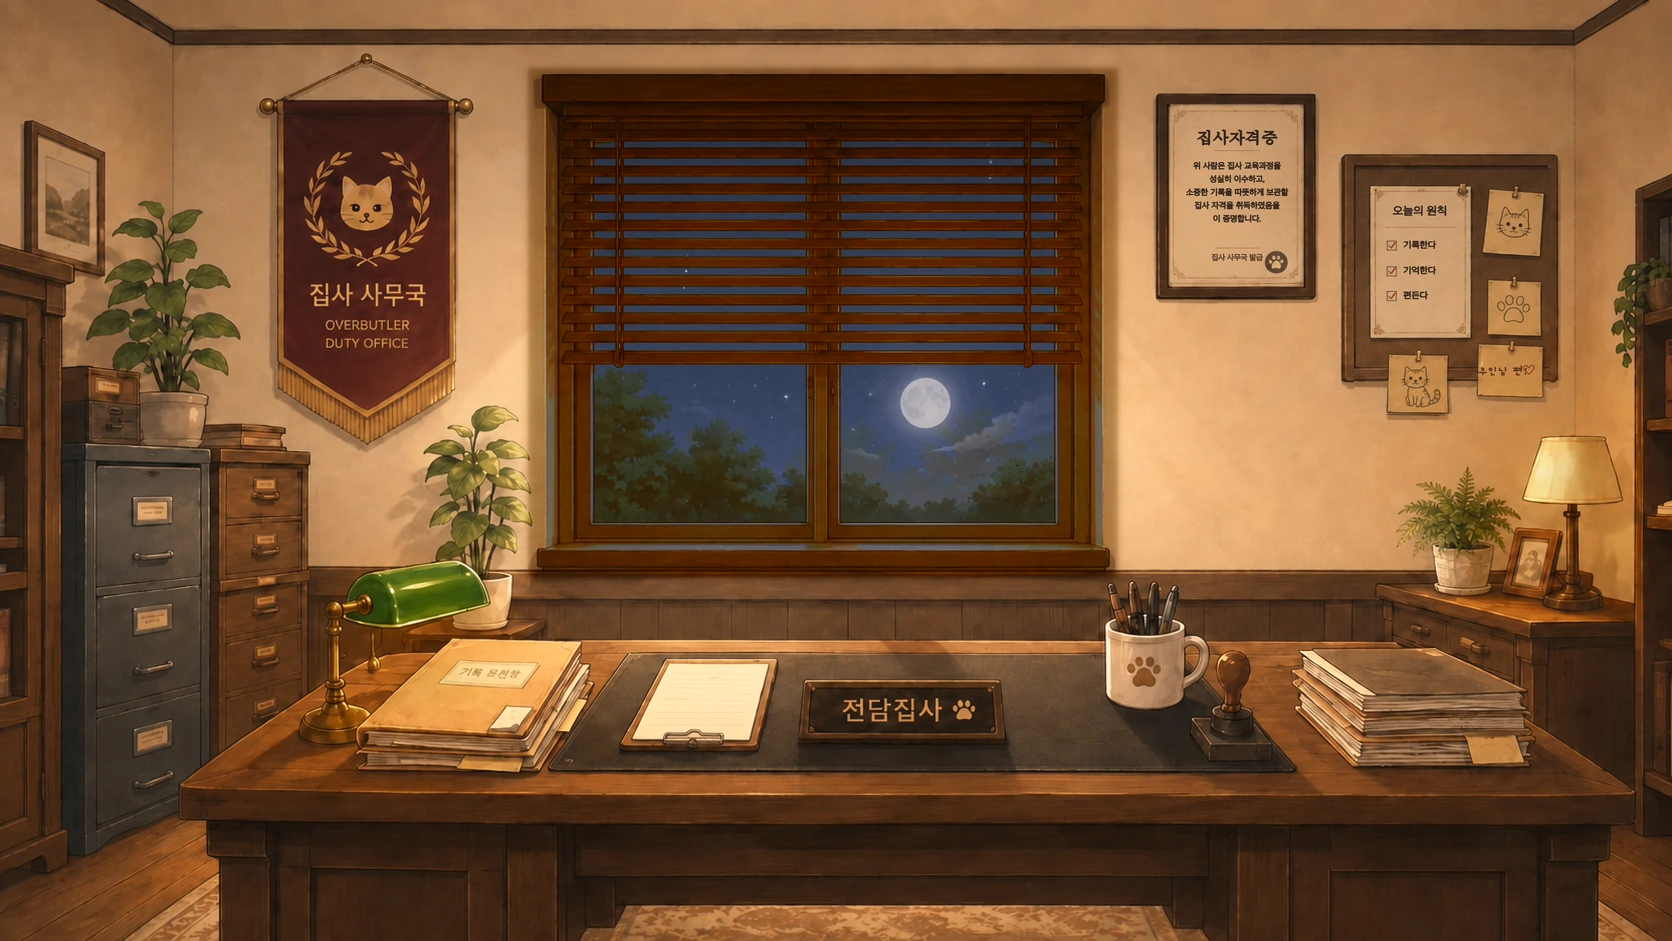
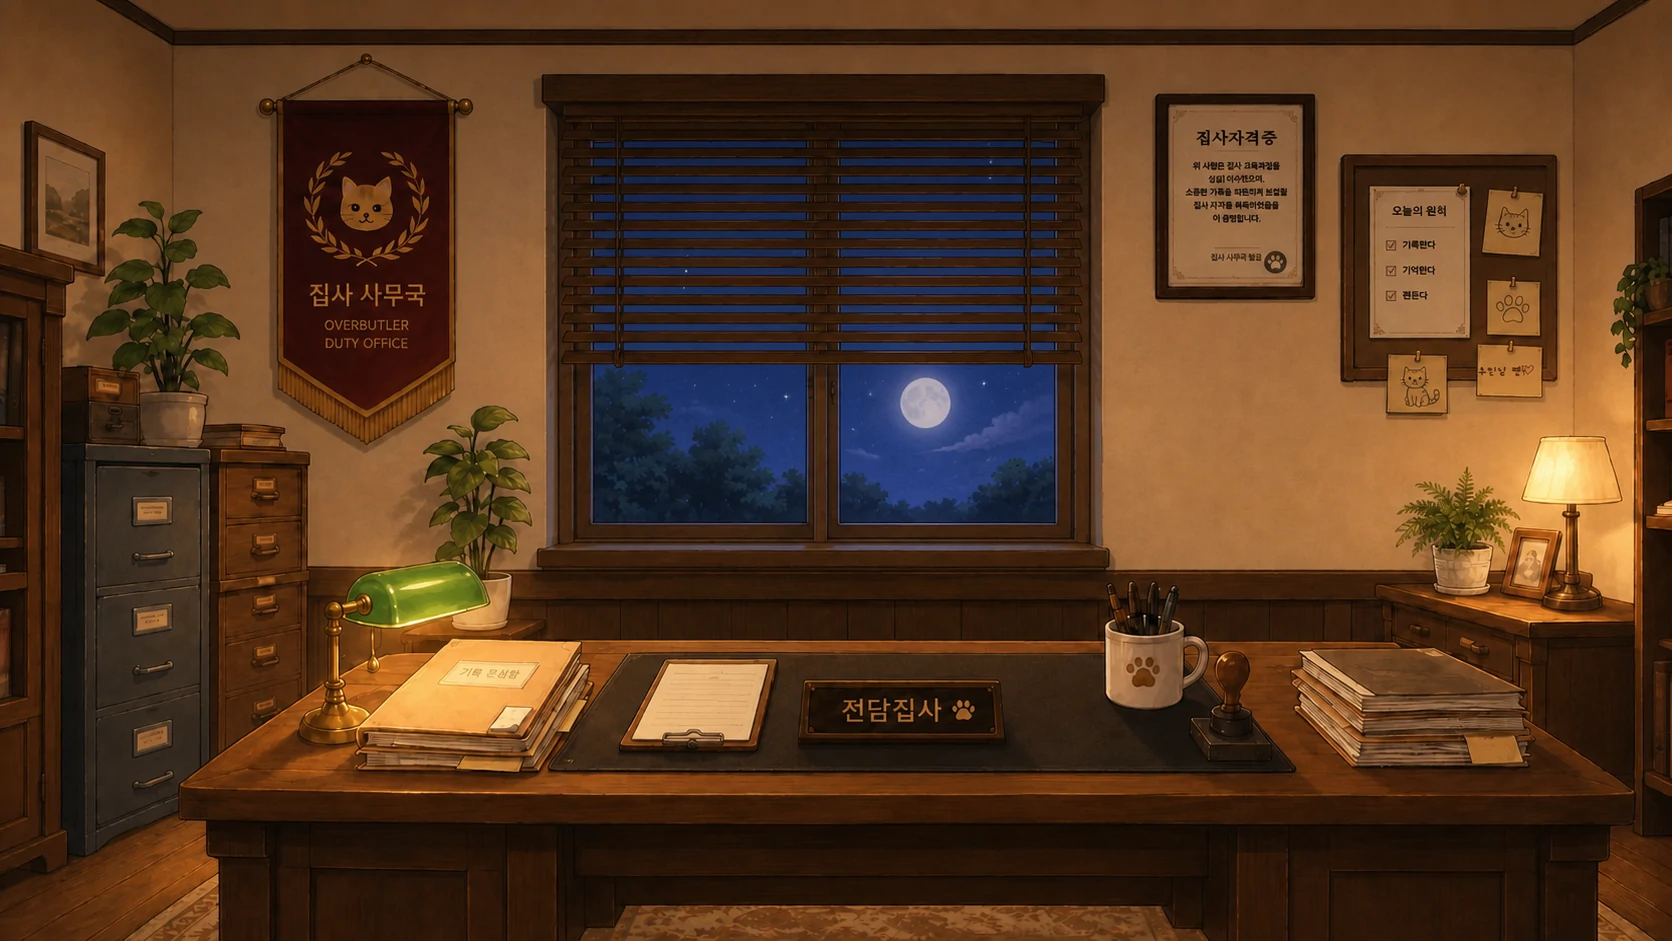
fix: restore cat office time artwork

diff --git a/retro-office.css b/retro-office.css
@@ -4625,59 +4625,13 @@ html[data-cat-room-light="night-off"] [data-desk-pose] {
   filter: brightness(.66) saturate(.72) contrast(.9);
 }
 
-#cat-home-world .cat-home-background,
-#cat-home-world .cat-home-foreground {
-  transition: filter 520ms ease;
-}
-
-html[data-cat-room-light="dawn"] #cat-home-world .cat-home-background,
-html[data-cat-room-light="dawn"] #cat-home-world .cat-home-foreground {
-  filter: brightness(.82) saturate(.78) contrast(.94);
-}
-
-html[data-cat-room-light="sunset"] #cat-home-world .cat-home-background,
-html[data-cat-room-light="sunset"] #cat-home-world .cat-home-foreground {
-  filter: brightness(.92) saturate(.95) sepia(.06);
-}
-
-html[data-cat-room-light="night-on"] #cat-home-world .cat-home-background,
-html[data-cat-room-light="night-on"] #cat-home-world .cat-home-foreground {
-  filter: brightness(.72) saturate(.78) contrast(.95) sepia(.06);
-}
-
-html[data-cat-room-light="night-off"] #cat-home-world .cat-home-background,
-html[data-cat-room-light="night-off"] #cat-home-world .cat-home-foreground {
-  filter: brightness(.56) saturate(.68) contrast(.92);
-}
-
-#cat-home-world .cat-home-background::after {
-  content: "";
-  position: absolute;
-  inset: 0;
-  pointer-events: none;
-  opacity: 0;
-  transition: opacity 520ms ease;
-}
-
-html[data-cat-room-light="night-on"] #cat-home-world .cat-home-background::after {
-  opacity: 1;
-  background:
-    radial-gradient(circle at 13% 70%, rgba(255, 196, 105, .23), transparent 20%),
-    radial-gradient(circle at 91% 52%, rgba(255, 181, 90, .28), transparent 24%);
-}
-
-html[data-cat-room-light="night-off"] #cat-home-world .cat-home-background::after {
-  opacity: 1;
-  background: radial-gradient(circle at 91% 52%, rgba(255, 181, 90, .3), transparent 25%);
-}
-
 .cat-room-lamp-hotspot {
   position: absolute;
   z-index: 12;
-  top: 39%;
-  left: 88%;
-  width: 10%;
-  height: 25%;
+  top: 53%;
+  left: 11%;
+  width: 18%;
+  height: 24%;
   padding: 0;
   border: 0;
   border-radius: 999px;
@@ -4711,5 +4665,5 @@ html[data-cat-room-light="night-off"] #cat-home-world .cat-home-background::afte
 }
 
 #view-home .reception-slip {
-  margin: -8px 16px 0;
+  margin: 8px 16px 0;
 }
